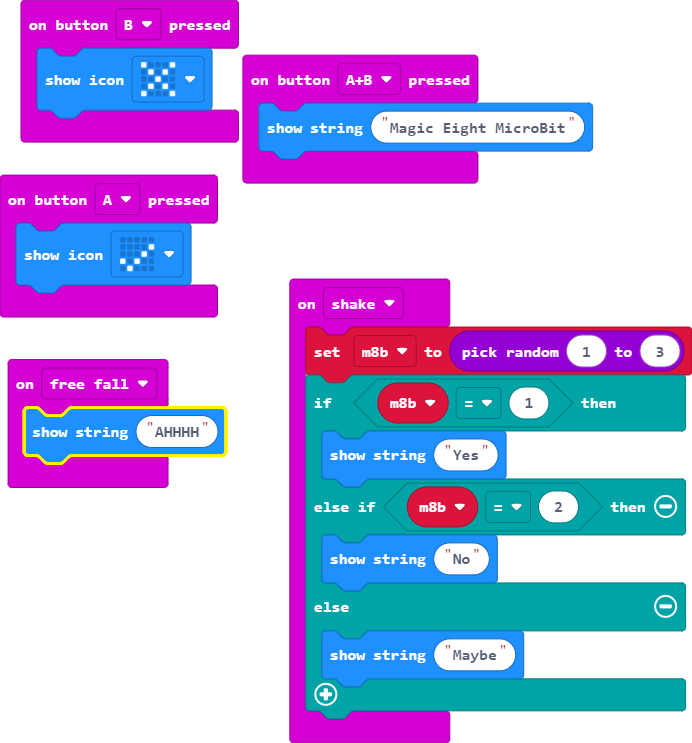
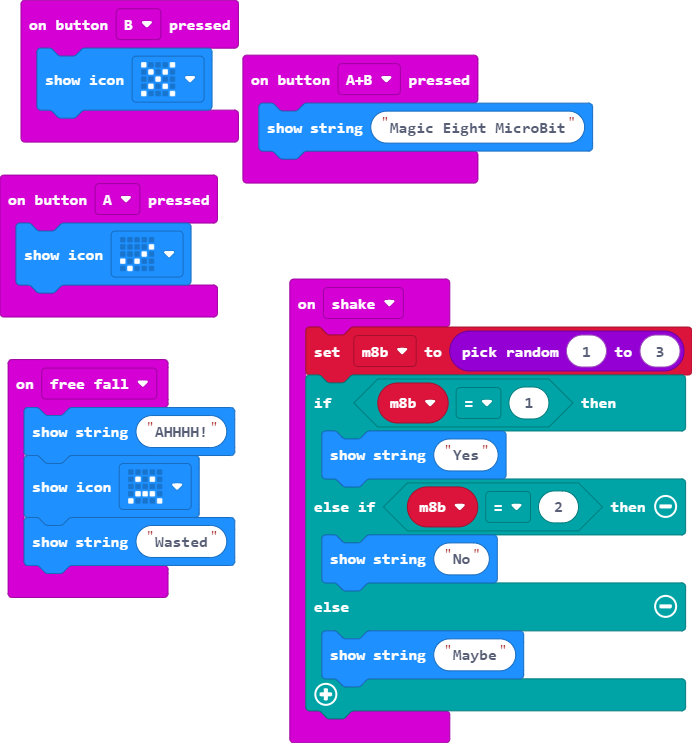
Update main.blocks, main.ts

Changed region(s): [[0.0, 0.5262, 0.3642, 0.8048]]

diff --git a/main.ts b/main.ts
@@ -3,7 +3,9 @@ input.onButtonPressed(Button.A, function () {
     basic.showIcon(IconNames.Yes)
 })
 input.onGesture(Gesture.FreeFall, function () {
-    basic.showString("AHHHH")
+    basic.showString("AHHHH!")
+    basic.showIcon(IconNames.Sad)
+    basic.showString("Wasted")
 })
 input.onButtonPressed(Button.AB, function () {
     basic.showString("Magic Eight MicroBit")
